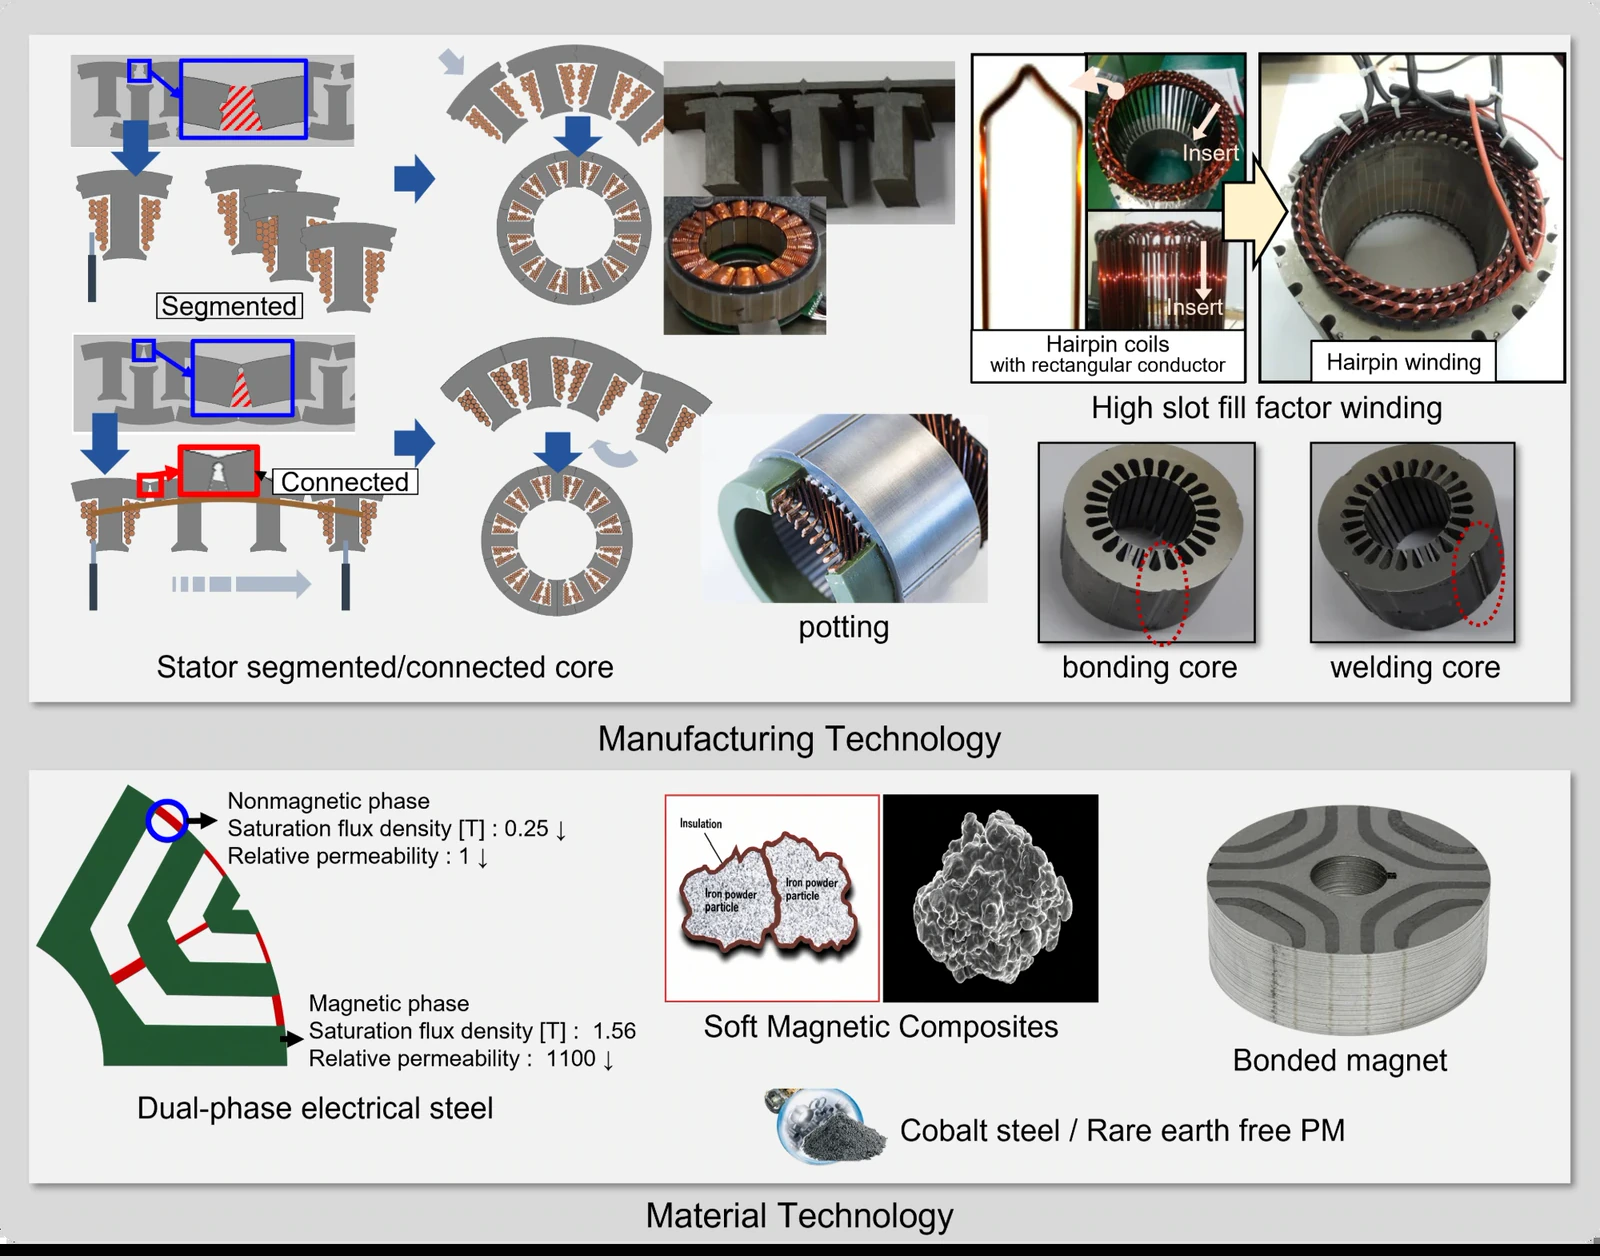
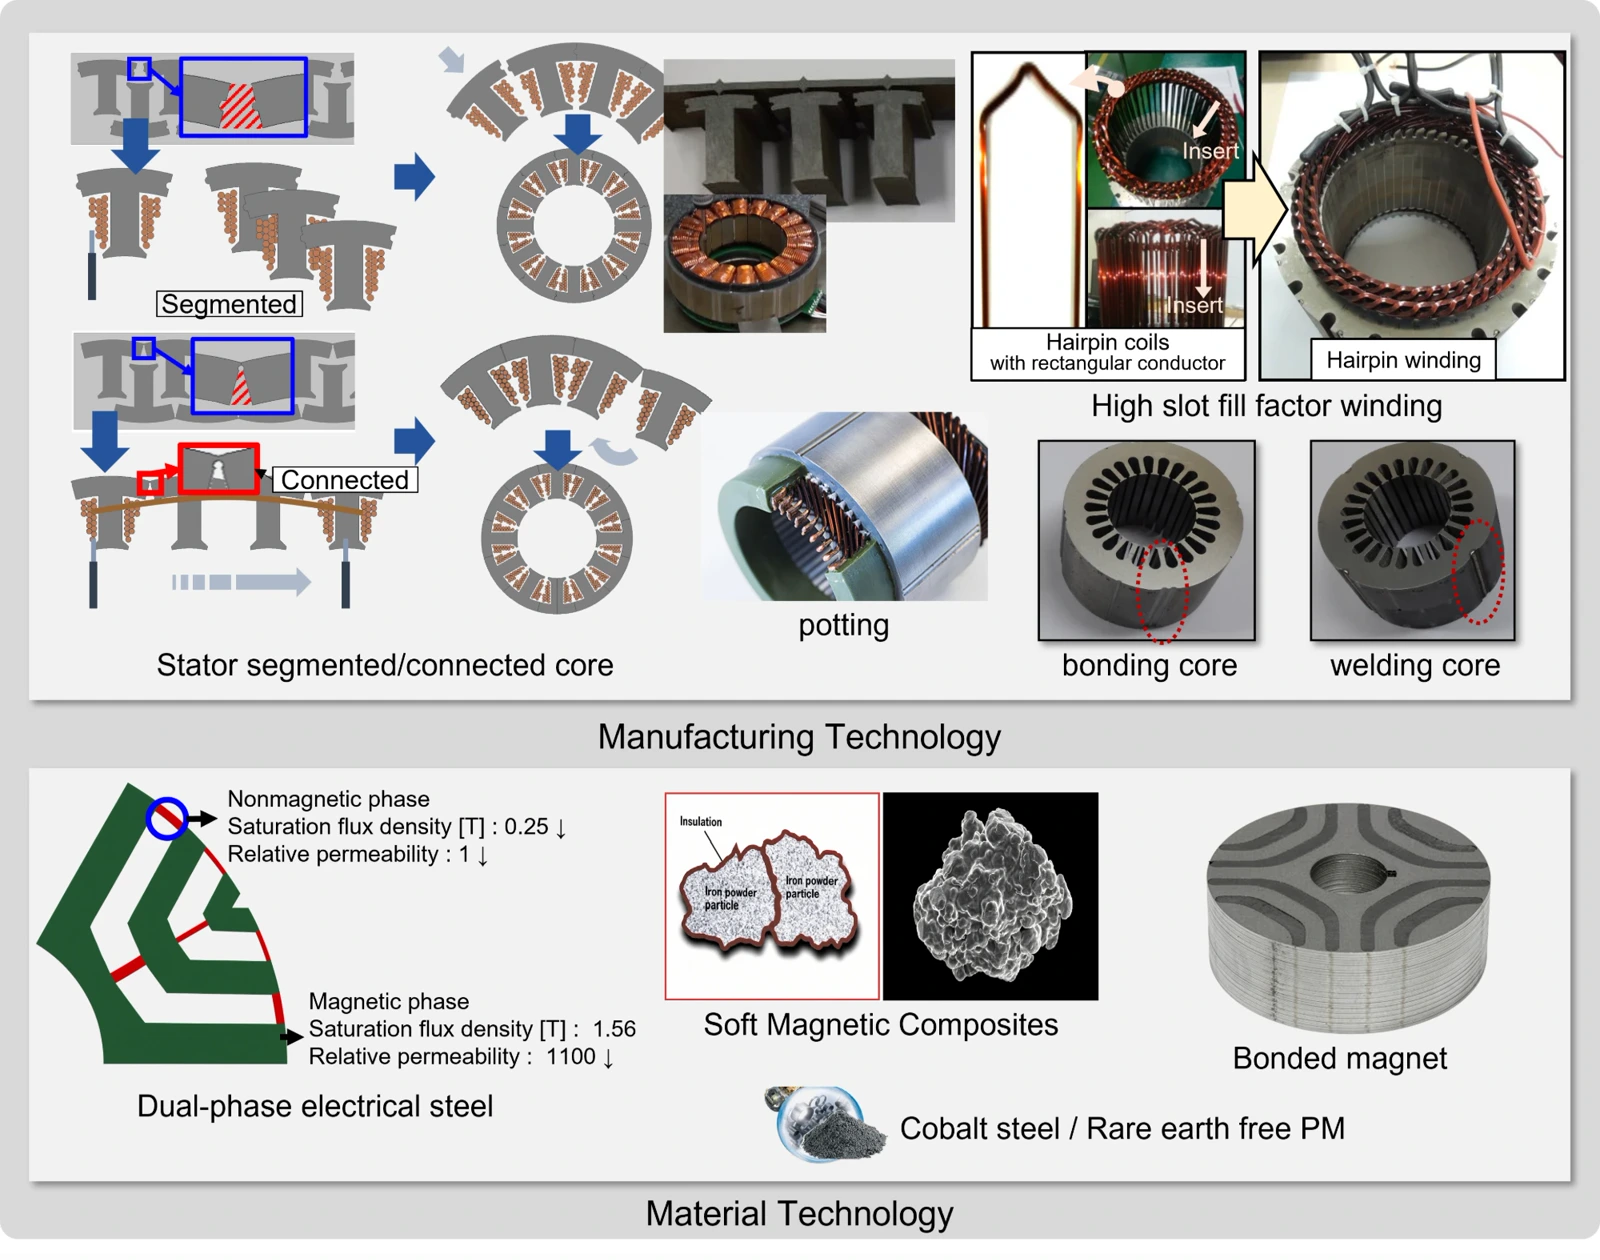
연구분야 3 을 그림 세 장에 맞춘 세 라벨로 정리하고 재료·제조 그림 교체
라벨을 그림 안의 절 이름에 맞춘다 — 대표그림 Design Process,
세부그림1 Machine & Winding Topology, 세부그림2 Manufacturing & Material Technology.
요구 조건은 절차의 첫 단계라 Design Process 에 넣는다.
키워드의 상위어 "설계 절차"를 "극 · 슬롯 조합 · 사이징"으로 바꿨다.
재료·제조 그림은 수정본으로 교체 (짝 그림과 같은 1600x1260, 아래 검은 띠 사라짐).

diff --git a/data/research.js b/data/research.js
@@ -69,18 +69,18 @@ const RESEARCH = [
     title: "Electric Machine Design & Technology",
     summary: "요구 조건에서 제작 가능한 기기까지, 형상·권선·구동 방식과 재료·제조 기술을 함께 다루는 설계",
     topics: [
-      "설계 절차 · 사이징",
+      "극 · 슬롯 조합 · 사이징",
       "통상형 기기 (SPMSM · IPMSM · 유도기 · 릴럭턴스기)",
       "신개념 기기 (이중회전자 · 가변자속 · 자기기어 · 버니어 · BL-WFSM)",
-      "권선 형상 · 권선 절체",
-      "제조 기술 (헤어핀 권선 · 분할코어 · 포팅)",
-      "재료 기술 (전기강판 · SMC · 희토류 프리 자석)"
+      "개방권선 · 이중 3상 권선 · 권선 절체",
+      "제조 기술 (헤어핀 권선 · 분할코어 · 접착 · 용접 · 포팅)",
+      "재료 기술 (이상 전기강판 · SMC · 본드자석 · 희토류 프리 자석)"
     ],
-    description: "Design Requirements : 토크·출력·속도 곡선 및 시스템이 부여하는 공간·온도·전압·전류 제약 정의\nDesign Procedure : 극·슬롯 조합, 2차원 형상, 축장, 전기자 권선 턴수의 순차 결정 및 특성 해석에 의한 성능 검증\nMachine Topology : 통상형 기기(SPMSM·IPMSM·유도기·릴럭턴스기)부터 신개념 기기(이중회전자·이중고정자, 가변자속, 자기기어, 버니어, BL-WFSM)까지의 형상 검토\nWinding & Drive Configuration : 개방권선, 이중 3상 권선, 직렬-병렬 권선 절체를 통한 운전 영역 확장\nMaterials & Manufacturing : 헤어핀 권선, 분할·접착·용접 코어, 포팅, 이상 전기강판, 연자성 복합재(SMC), 본드자석, 희토류 프리 자석의 설계 변수화",
+    description: "Design Process : 요구 토크-출력-속도 곡선과 기계적·전기적 제약으로부터 극·슬롯 조합, 2차원 형상, 축장, 전기자 권선 턴수의 순차 결정 및 특성 해석에 의한 성능 검증\nMachine & Winding Topology : 통상형 기기(SPMSM·IPMSM·유도기·릴럭턴스기)부터 신개념 기기(이중회전자, 가변자속, 자기기어, 버니어, BL-WFSM)까지의 형상 검토 및 개방권선·이중 3상 권선·권선 절체를 통한 운전 영역 확장\nManufacturing & Material Technology : 헤어핀 권선, 분할·접착·용접 코어, 포팅 등 제조 기술과 이상 전기강판, 연자성 복합재(SMC), 본드자석, 희토류 프리 자석 등 재료 기술의 설계 변수화",
     image: "images/research/design-overview.webp",
     images: [
       { src: "images/research/design-topology.webp",
-        caption: "Control and machine topology — drive scheme and winding configuration, and machines from the conventional family to emerging concepts" },
+        caption: "Winding, drive and machine topology — drive scheme and winding configuration, and machines from the conventional family to emerging concepts" },
       { src: "images/research/design-material.webp",
         caption: "Manufacturing and material technology — core and winding processes, and next-generation magnetic materials" }
     ]
